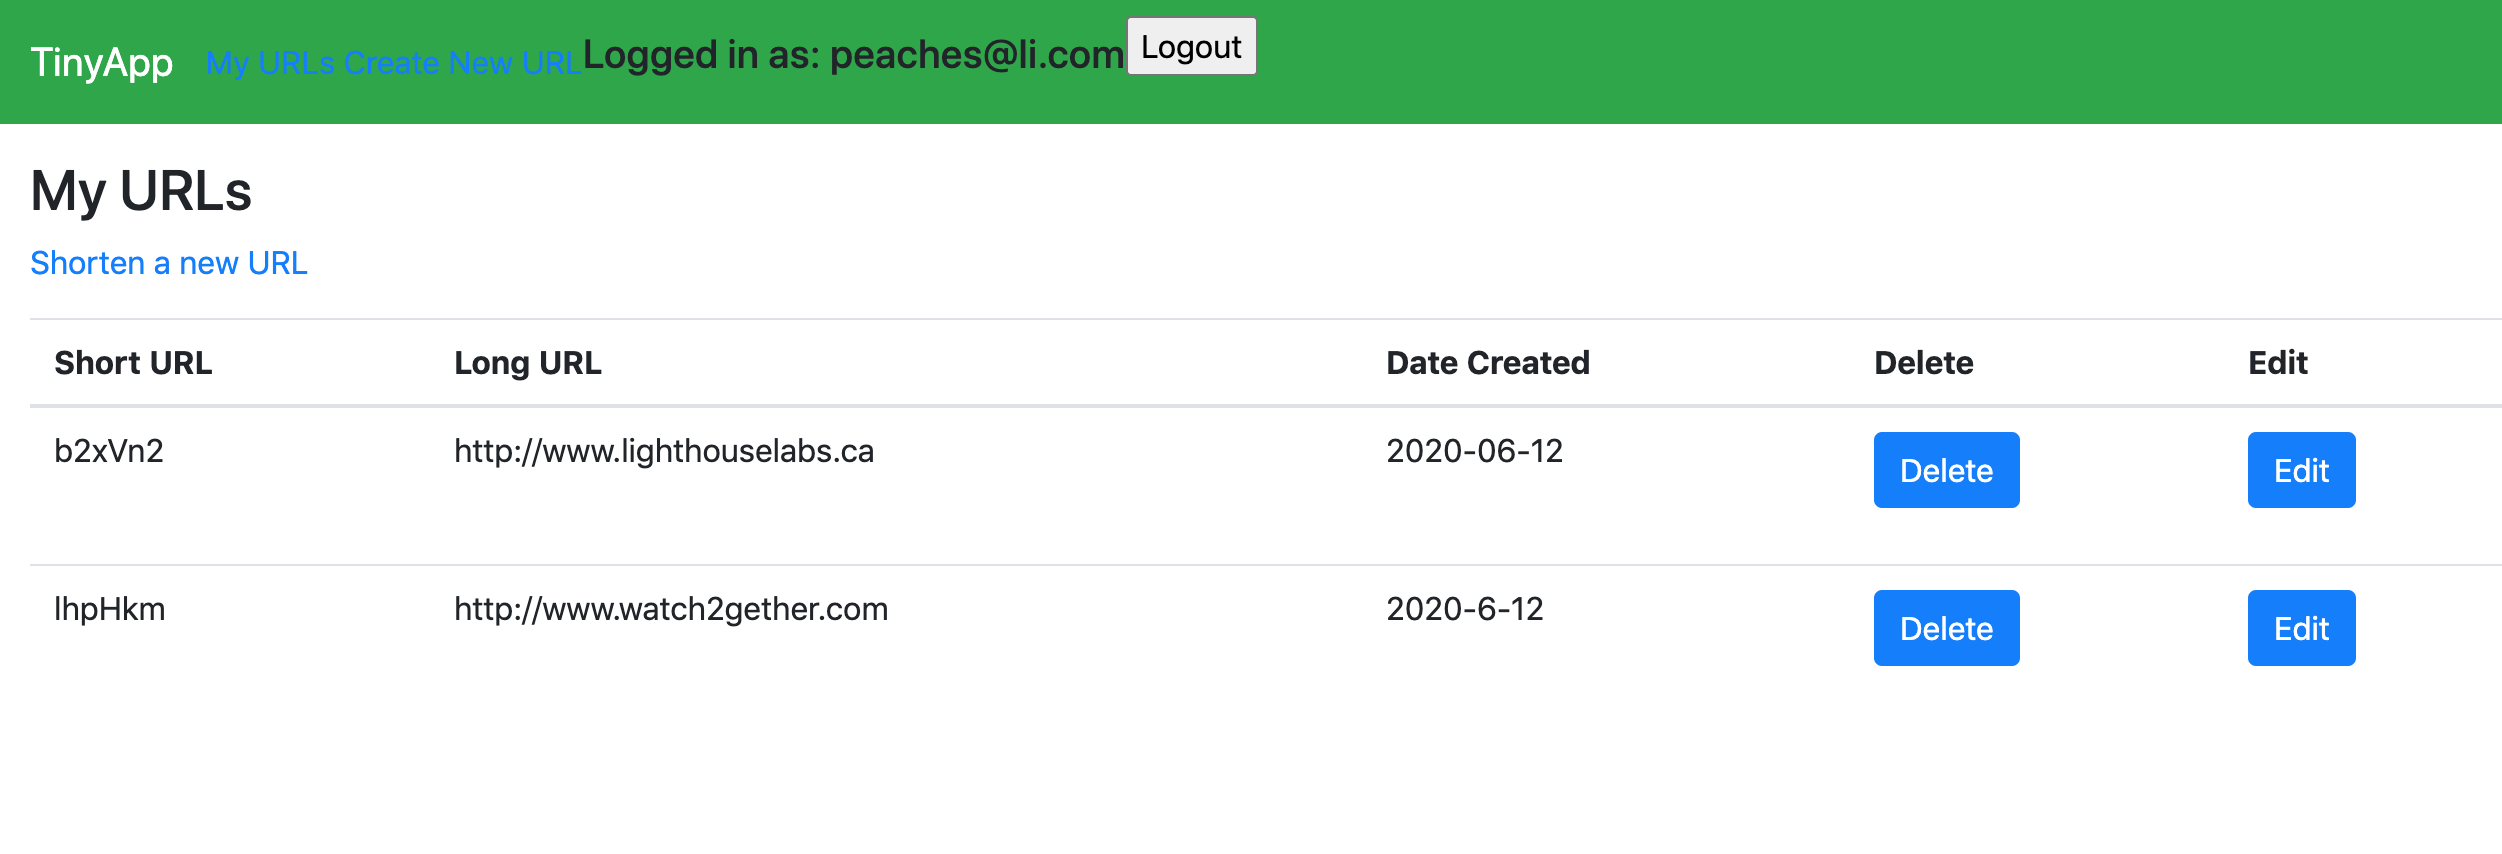
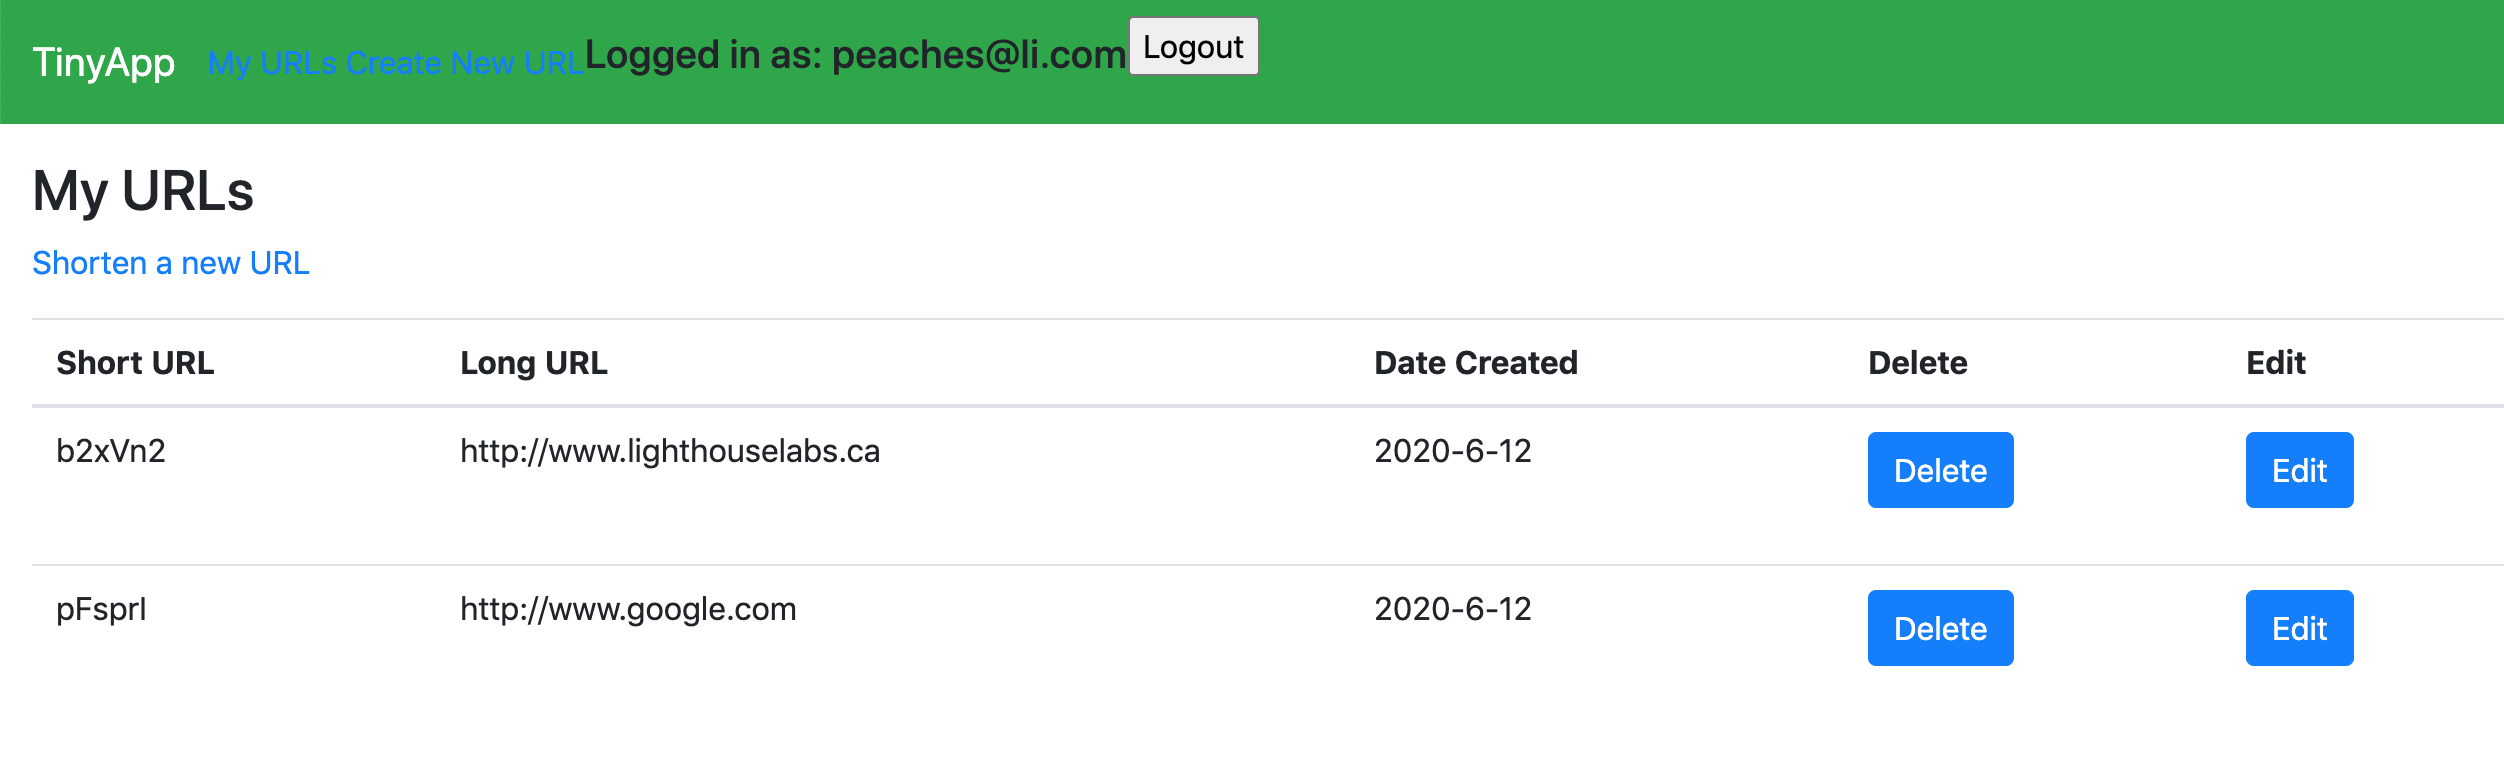
modified a screenshot

diff --git a/databases.js b/databases.js
@@ -1,8 +1,8 @@
 const { hashedPassword } = require('./helpers');
 
 const urlDatabase = {
-  "b2xVn2": { longURL: "http://www.lighthouselabs.ca", userID: "peachesli", dateCreated: '2020-06-12'},
-  "9sm5xK": { longURL: "http://www.google.com", userID: "eileenlimur", dateCreated: '2020-06-12'}
+  "b2xVn2": { longURL: "http://www.lighthouselabs.ca", userID: "peachesli", dateCreated: '2020-6-12'},
+  "9sm5xK": { longURL: "http://www.google.com", userID: "eileenlimur", dateCreated: '2020-6-12'}
 };
 
 const users = {

diff --git a/README.md b/README.md
@@ -4,7 +4,7 @@ TinyApp is a full stack web application built with Node and Express that allows 
 
 ## Final Product
 
-!["Your very own personal tinyURLs collection"](https://github.com/eileenlimur/tinyapp/blob/master/docs/tinyapp_urls.png)
+!["Your very own personal tinyURLs collection"]()
 !["You can edit your tinyURLs"](https://github.com/eileenlimur/tinyapp/blob/master/docs/tinapp_edit.png)
 
 ## Dependencies
